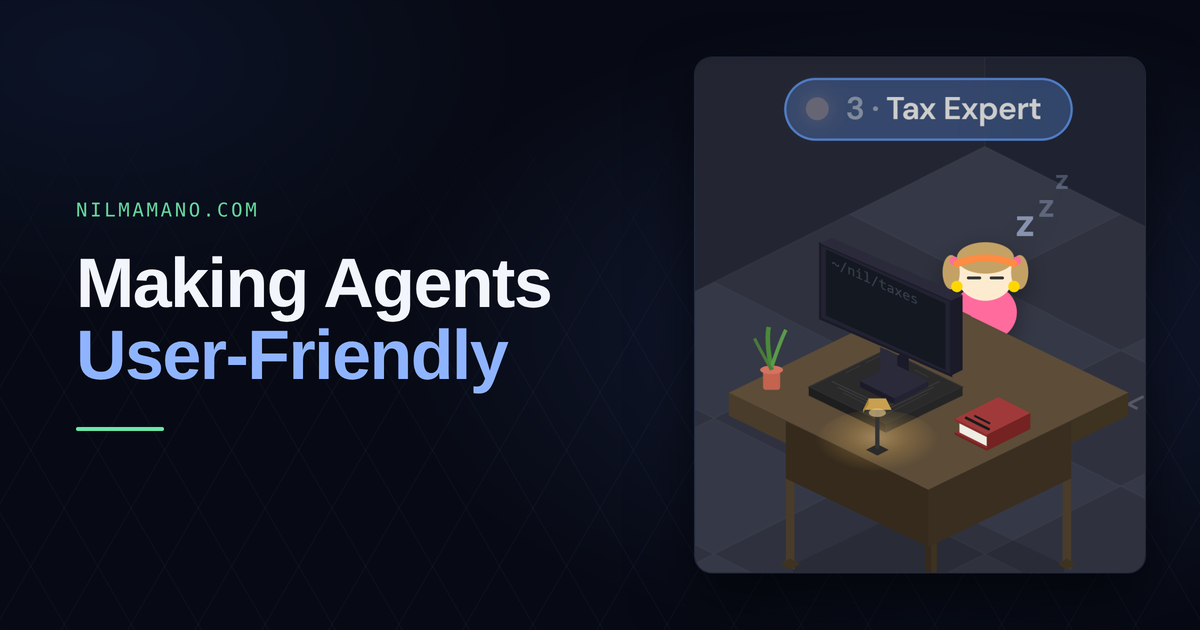
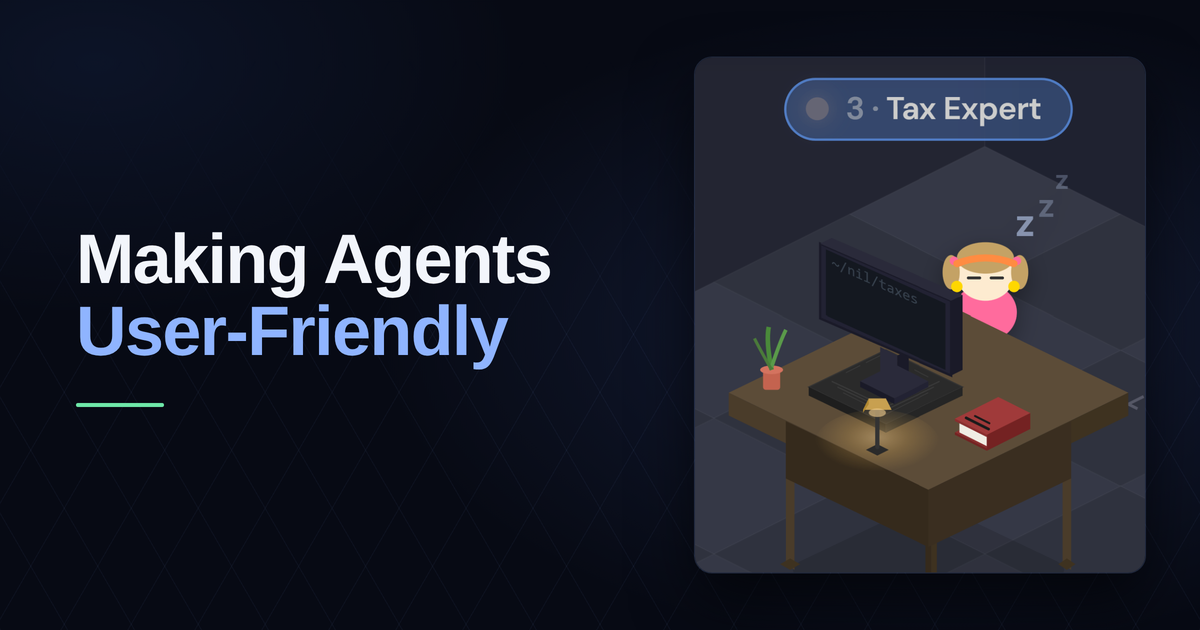
Blog: refresh header tagline, reorder categories, nanogpt takeaway box
- Tagline: 'Agentic systems, building in public, teaching DS&A, CS research
  highlights'. AI is 7 of the last 8 posts and was the one thing the old
  tagline did not mention. Updated in the visible header and the three
  metadata copies.
- Category filters reordered to match, Research last. SWE is hidden from the
  filter row via a hiddenFromFilters flag rather than deleted, so the 13
  swe-tagged posts keep their badge styling and /blog/category/swe still works.
- nanogpt speedrun: main takeaway box at the intro, target audience moved out
  of its callout so the two boxes are not stacked. Closes task 67e2fd09.
- Agent UI cover: drop the NILMAMANO.COM eyebrow.

Changed region(s): [[0.0617, 0.3016, 0.4625, 0.6333], [0.0617, 0.6333, 0.1233, 0.6937]]

diff --git a/app/lib/blog-categories.ts b/app/lib/blog-categories.ts
@@ -2,9 +2,22 @@ export interface CategoryConfig {
   name: string;
   bgColor: string;
   textColor: string;
+  /** Keep the badge styling but leave it out of the filter row. */
+  hiddenFromFilters?: boolean;
 }
 
+// Insertion order is the order of the filter buttons.
 export const CATEGORIES: Record<string, CategoryConfig> = {
+  ai: {
+    name: "AI",
+    bgColor: "bg-pink-100",
+    textColor: "text-pink-800",
+  },
+  wallgame: {
+    name: "Wall Game",
+    bgColor: "bg-orange-100",
+    textColor: "text-orange-800",
+  },
   bctci: {
     name: "BCtCI",
     bgColor: "bg-blue-100",
@@ -24,16 +37,7 @@ export const CATEGORIES: Record<string, CategoryConfig> = {
     name: "SWE",
     bgColor: "bg-yellow-100",
     textColor: "text-yellow-800",
-  },
-  wallgame: {
-    name: "Wall Game",
-    bgColor: "bg-orange-100",
-    textColor: "text-orange-800",
-  },
-  ai: {
-    name: "AI",
-    bgColor: "bg-pink-100",
-    textColor: "text-pink-800",
+    hiddenFromFilters: true,
   },
 };
 

diff --git a/app/blog/page.tsx b/app/blog/page.tsx
@@ -5,11 +5,11 @@ import { Metadata } from "next";
 export const metadata: Metadata = {
   title: "Nil Pointers",
   description:
-    "Teaching DS&A, CS research highlights, SWE things, building in public.",
+    "Agentic systems, building in public, teaching DS&A, CS research highlights.",
   openGraph: {
     title: "nil pointers",
     description:
-      "Teaching DS&A, CS research highlights, SWE things, building in public.",
+      "Agentic systems, building in public, teaching DS&A, CS research highlights.",
     url: "https://nilmamano.com/blog",
     images: [
       {
@@ -24,7 +24,7 @@ export const metadata: Metadata = {
     card: "summary_large_image",
     title: "nil pointers",
     description:
-      "Teaching DS&A, CS research highlights, SWE things, building in public.",
+      "Agentic systems, building in public, teaching DS&A, CS research highlights.",
     images: ["/og-blog.jpg"],
   },
 };

diff --git a/app/components/blog-list.tsx b/app/components/blog-list.tsx
@@ -45,7 +45,7 @@ export default function BlogList({
         <span className="font-mono">nil pointers</span>
       </h1>
       <p className="text-lg text-muted-foreground text-center mb-12">
-        Teaching DS&A · CS research highlights · SWE things · building in public
+        Agentic systems · Building in public · Teaching DS&A · CS research highlights
       </p>
 
       {/* Newsletter Subscription */}
@@ -65,7 +65,9 @@ export default function BlogList({
         >
           All Posts
         </button>
-        {Object.entries(CATEGORIES).map(([key, config]) => (
+        {Object.entries(CATEGORIES)
+          .filter(([, config]) => !config.hiddenFromFilters)
+          .map(([key, config]) => (
           <button
             key={key}
             onClick={() => handleCategoryChange(key)}
